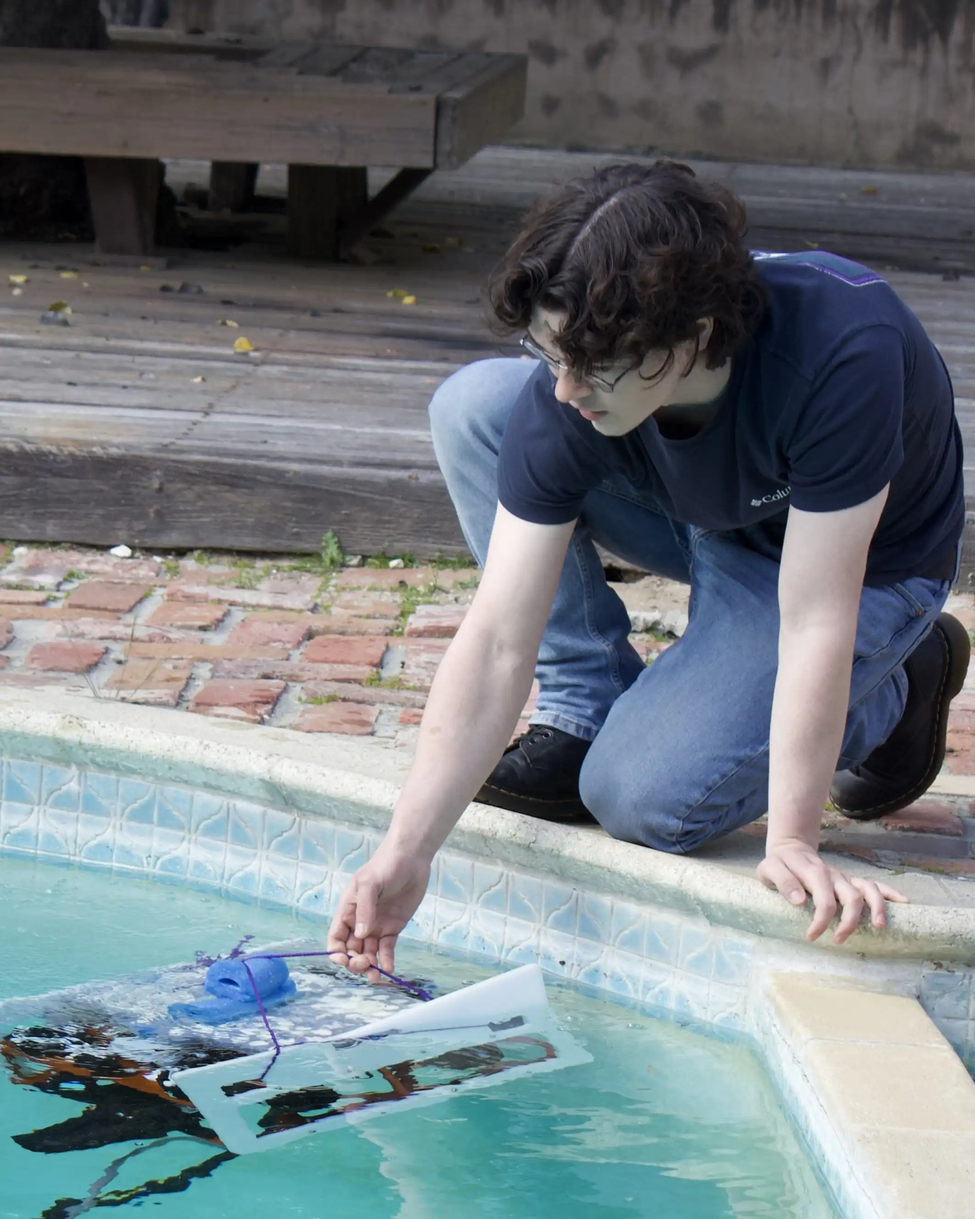
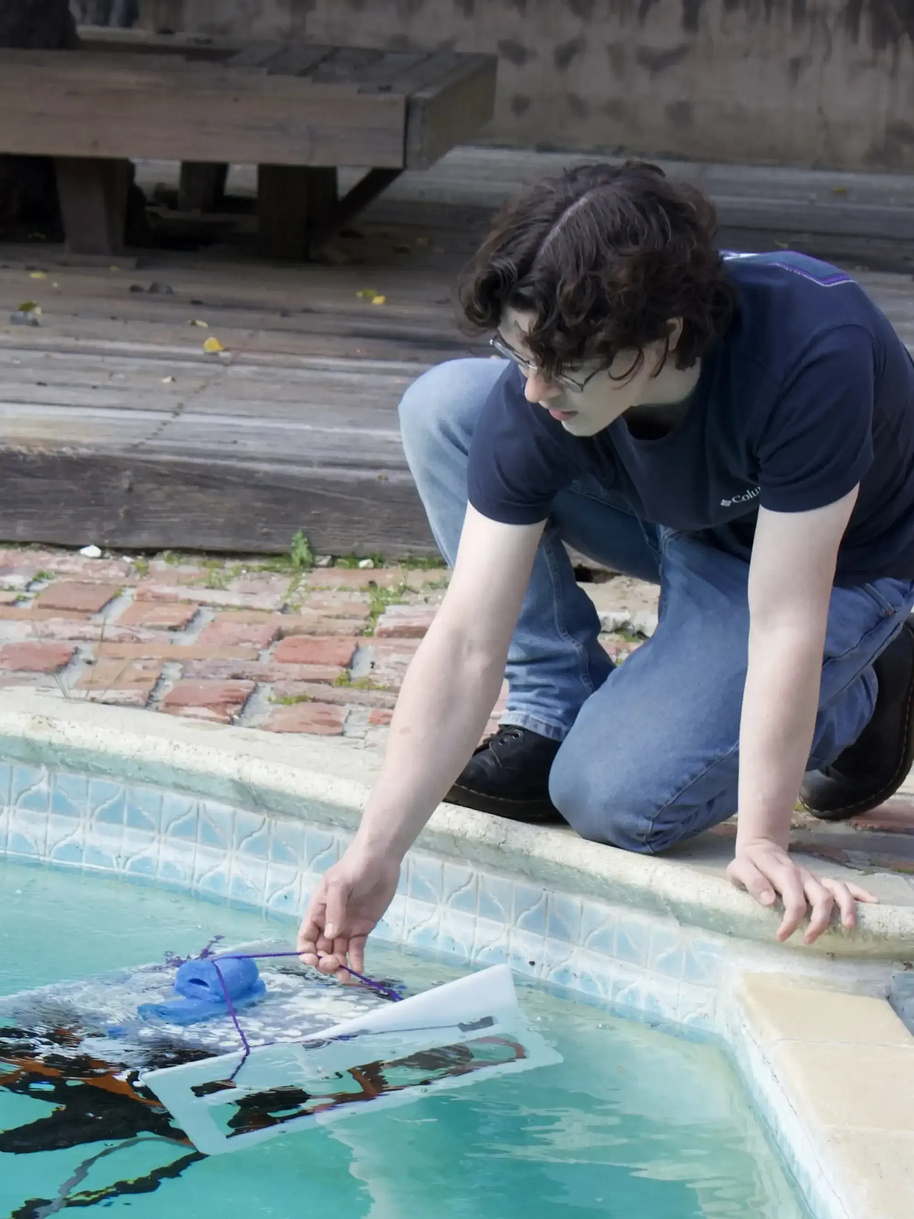
team updates

diff --git a/assets/images/team/cropscript.py b/assets/images/team/cropscript.py
@@ -1,0 +1,47 @@
+from PIL import Image
+import os
+
+script_folder = os.path.dirname(os.path.abspath(__file__))
+
+# Folder containing your images
+input_folder = script_folder  # Change this to your folder path
+output_folder = script_folder
+
+# Make sure output folder exists
+os.makedirs(output_folder, exist_ok=True)
+
+# Function to crop image to 4:3 aspect ratio
+def crop_to_4_3(img):
+    width, height = img.size
+    target_ratio = 3 / 4
+
+    current_ratio = width / height
+
+    if current_ratio > target_ratio:
+        # Image is wider than 4:3 → crop width
+        new_width = int(height * target_ratio)
+        left = (width - new_width) // 2
+        right = left + new_width
+        top = 0
+        bottom = height
+    else:
+        # Image is taller than 4:3 → crop height
+        new_height = int(width / target_ratio)
+        top = (height - new_height) // 2
+        bottom = top + new_height
+        left = 0
+        right = width
+
+    return img.crop((left, top, right, bottom))
+
+# Process all webp files
+for filename in os.listdir(input_folder):
+    if filename.lower().endswith(".webp"):
+        input_path = os.path.join(input_folder, filename)
+        output_path = os.path.join(output_folder, filename)
+
+        with Image.open(input_path) as img:
+            cropped_img = crop_to_4_3(img)
+            cropped_img.save(output_path)
+
+print(f"Finished cropping all webp images to 4:3 in '{output_folder}'")
